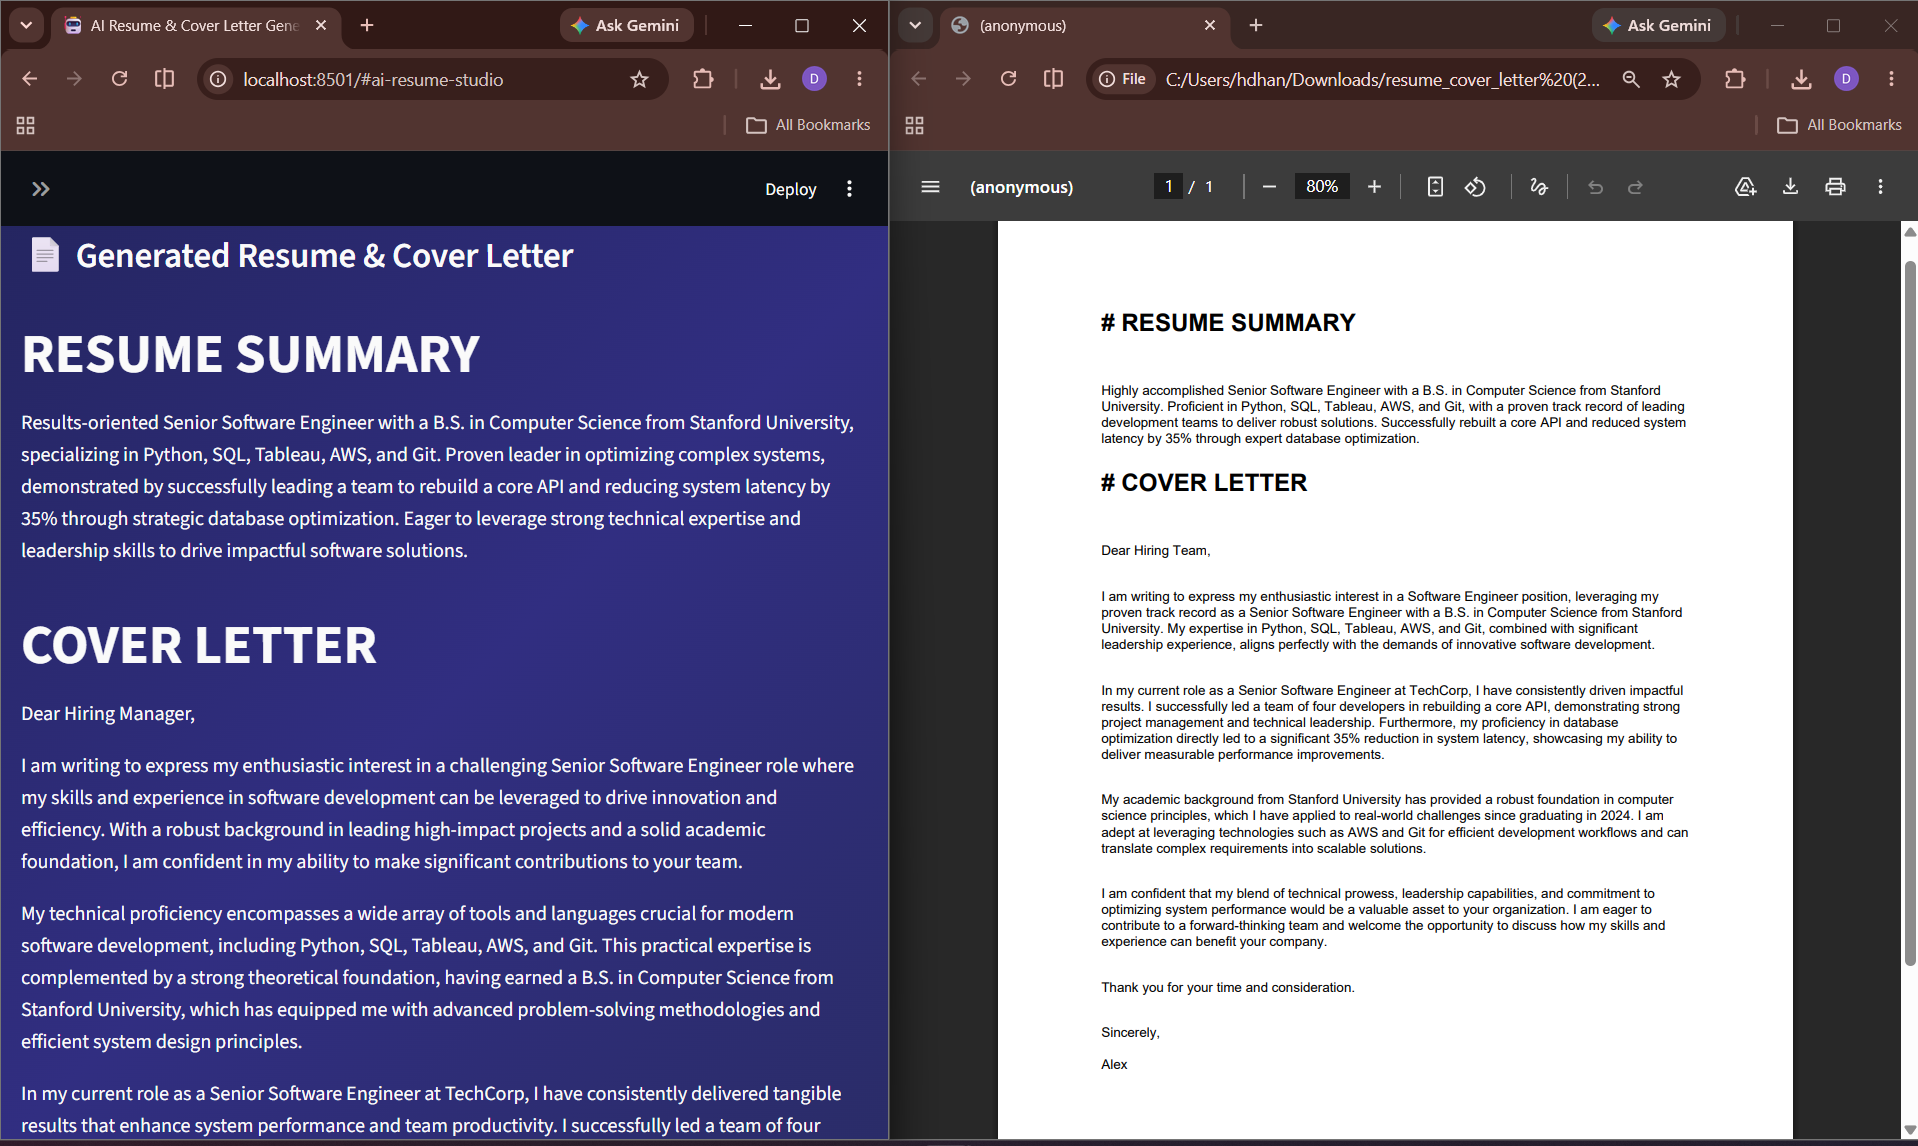
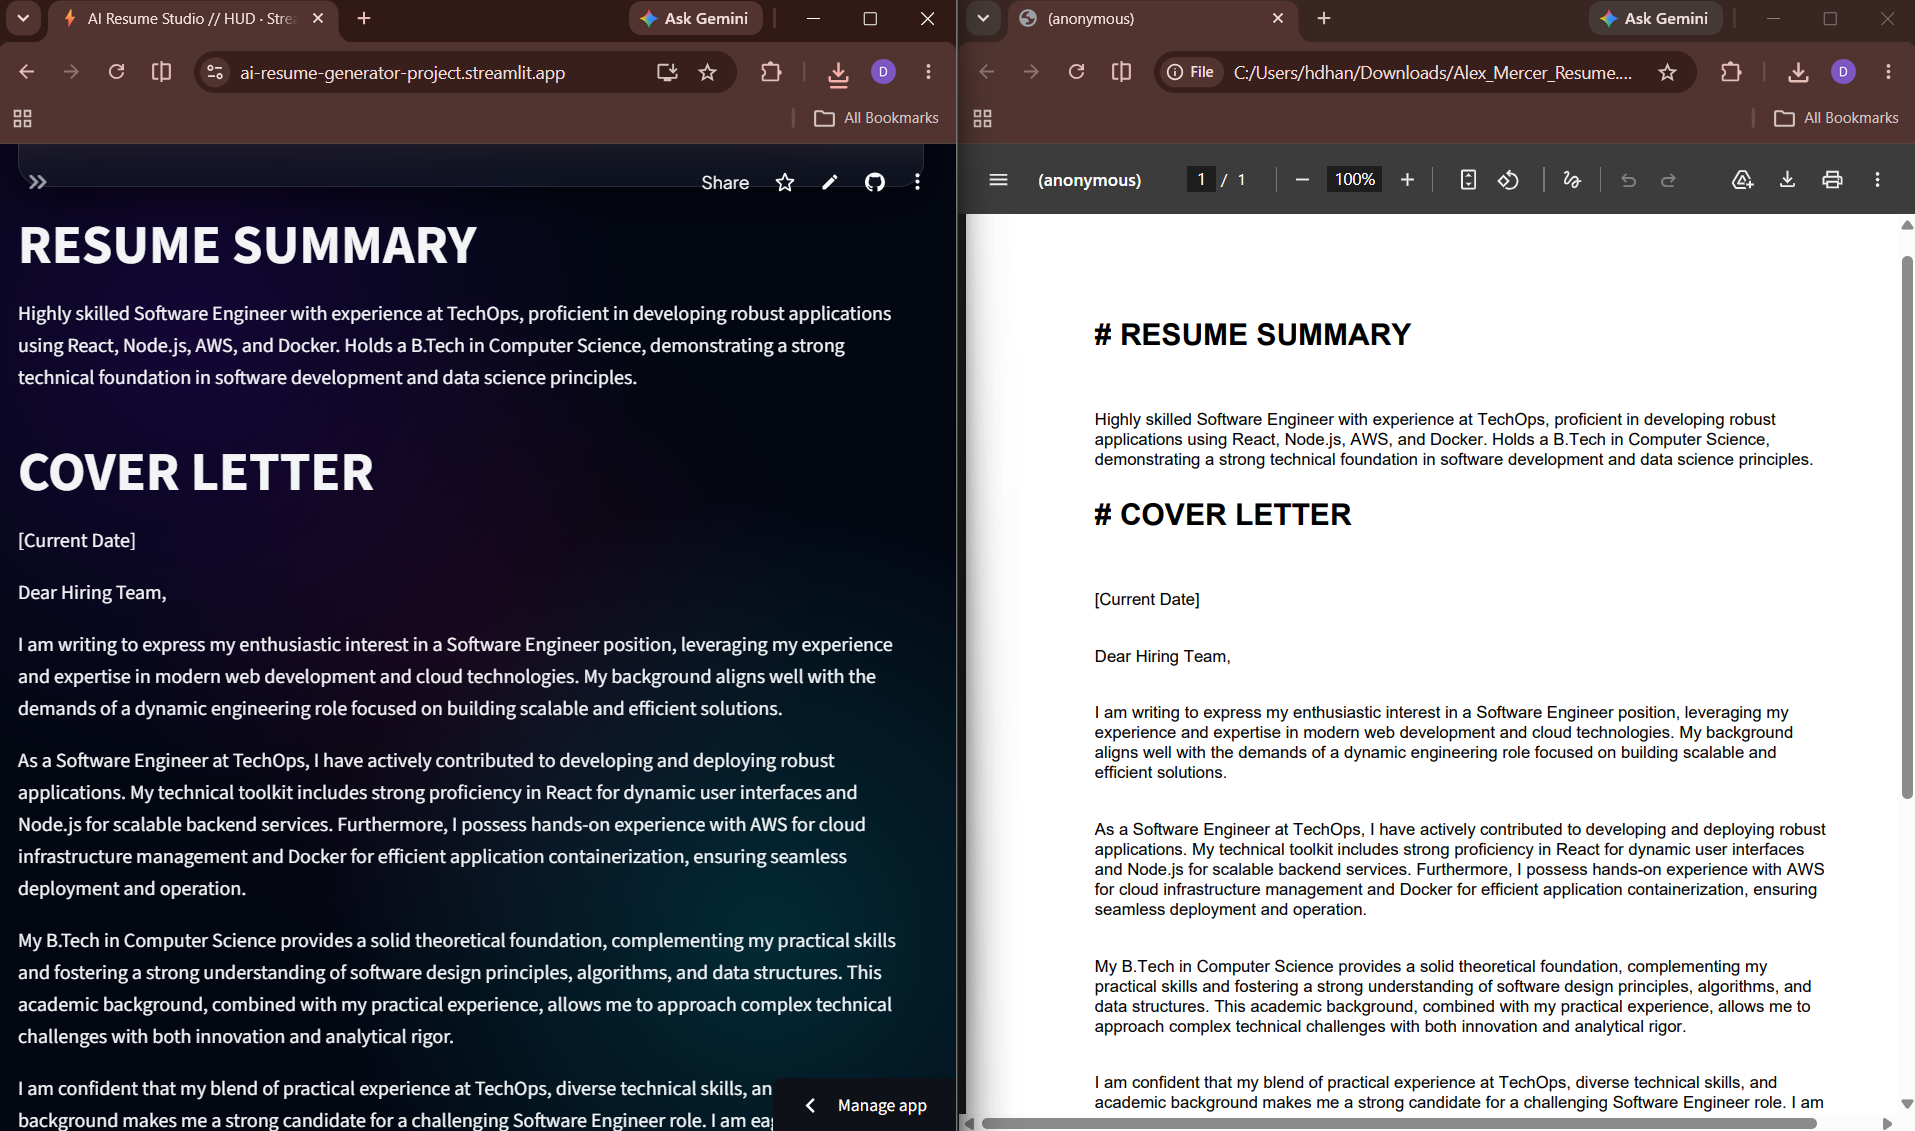
Add project screenshots and update README

diff --git a/README.md b/README.md
@@ -1,67 +1,76 @@
-# ⚡ AI Resume Studio
+# 🤖 AI Resume Studio
 
-An AI-powered Resume and Cover Letter Generator built with **Python, Streamlit, and Google Gemini AI**.
+### Generate ATS-Optimized Resumes, Cover Letters & Career Insights with AI
 
-AI Resume Studio helps users create professional, ATS-friendly resume summaries and cover letters from their personal information. It also provides an optional ATS compatibility analysis by comparing the candidate's profile with a target job description.
-
-🌐 **Live Demo:** https://ai-resume-generator-project.streamlit.app/
+🌐 **Live Demo:** [AI Resume Studio](https://ai-resume-generator-project.streamlit.app/)
 
 ---
 
-## 🚀 Features
+## 🚀 Overview
 
-### 📄 AI Resume Summary Generation
+AI Resume Studio is a modern AI-powered career assistant built using **Python, Streamlit, and Google Gemini AI**.
 
-Generate a concise and professional resume summary using your:
+The application helps users create professional ATS-friendly resume summaries, generate personalized cover letters, analyze job descriptions, and receive ATS compatibility scores instantly.
 
-* Name
-* Skills
-* Education
-* Work experience
+Designed with a futuristic animated interface, the platform simplifies the job application process and helps candidates improve their chances of passing Applicant Tracking Systems (ATS).
 
-### ✉ AI Cover Letter Generation
+---
 
-Automatically generate a professional, ready-to-use cover letter based on the candidate information provided.
+## ✨ Features
 
-### 🎯 ATS Compatibility Analysis
+### 📄 AI Resume Generator
 
-Paste a target job description to receive an AI-powered analysis containing:
+Generate professional and ATS-friendly resume summaries based on your skills, education, and experience.
 
-* ATS Compatibility Score
+### 💌 AI Cover Letter Generator
+
+Create personalized cover letters tailored to your profile and target job role.
+
+### 🎯 ATS Score Analysis
+
+Analyze your profile against a job description and receive an AI-powered ATS compatibility score.
+
+### 📊 Career Insights
+
+Discover:
+
 * Missing Skills
-* Candidate Strengths
+* Key Strengths
 * Improvement Suggestions
+* ATS Optimization Tips
 
-### 📥 PDF Resume Export
+### 📥 PDF Export
 
-Download your generated resume and cover letter as a PDF document.
+Download generated resumes and cover letters as professional PDF documents.
 
-### 📊 ATS Report Download
+### 📑 ATS Report Export
 
-Download your ATS analysis as a `.txt` file for future reference.
+Download your ATS analysis and recommendations as a `.txt` report.
 
-### 🎨 Modern Cyberpunk UI
+### 🎨 Modern UI/UX
 
-The application features a modern glassmorphism and cyberpunk-inspired interface with:
+Includes:
 
-* Animated loading screen
-* Gradient UI elements
-* Glass-style cards
-* Responsive Streamlit layout
-* Dark futuristic design
+* Animated Gradient Background
+* Glassmorphism Design
+* Responsive Layout
+* Interactive Metrics
+* Futuristic Dark Theme
+* Animated Loading Effects
+* Celebration Effects
 
 ---
 
-## 🛠 Tech Stack
+## 🛠 Tech Stack
 
-| Technology          | Purpose                                |
-| ------------------- | -------------------------------------- |
-| Python              | Application development                |
-| Streamlit           | Web application framework              |
-| Google Gemini AI    | Resume, cover letter, and ATS analysis |
-| ReportLab           | PDF document generation                |
-| Regular Expressions | ATS score extraction                   |
-| HTML & CSS          | Custom user interface                  |
+| Technology          | Purpose                              |
+| ------------------- | ------------------------------------ |
+| Python              | Application Logic                    |
+| Streamlit           | Web Application Framework            |
+| Google Gemini AI    | AI Content Generation & ATS Analysis |
+| ReportLab           | PDF Generation                       |
+| Regular Expressions | ATS Score Extraction                 |
+| HTML & CSS          | Custom UI/UX                         |
 
 ---
 
@@ -74,48 +83,46 @@ AI-Resume-Generator/
 ├── pdf_generator.py
 ├── requirements.txt
 ├── .gitignore
-└── README.md
+├── README.md
+│
+└── screenshots/
+    ├── homepage.png
+    ├── coverletter_pdf.png
+    └── ats_score.png
 ```
 
-### File Description
-
-* `app.py` — Main Streamlit application and AI generation logic
-* `pdf_generator.py` — Generates downloadable PDF documents
-* `requirements.txt` — Contains required Python dependencies
-* `.gitignore` — Prevents sensitive and unnecessary files from being uploaded
-* `README.md` — Project documentation
+> 🔐 API keys and sensitive configuration files are excluded from the repository using `.gitignore`.
 
 ---
 
 ## ⚙ Installation
 
-### 1. Clone the Repository
+### Clone Repository
 
 ```bash
-git clone https://github.com/YOUR_USERNAME/AI-Resume-Generator.git
-```
-
-### 2. Navigate to the Project
-
-```bash
+git clone <repository-url>
 cd AI-Resume-Generator
 ```
 
-### 3. Install Dependencies
+### Install Dependencies
 
 ```bash
 pip install -r requirements.txt
+```
+
+### Run Application
+
+```bash
+streamlit run app.py
 ```
 
 ---
 
 ## 🔑 API Configuration
 
-This project uses the **Google Gemini API**.
+This project uses the **Google Gemini API** for AI-powered resume generation, cover letter generation, and ATS analysis.
 
-For local development, configure your Gemini API key using your preferred secure method.
-
-For Streamlit Community Cloud deployment, add your API key to Streamlit Secrets:
+For deployment, configure your API key using Streamlit Secrets:
 
 ```toml
 GEMINI_API_KEY = "YOUR_GEMINI_API_KEY"
@@ -123,108 +130,72 @@ GEMINI_API_KEY = "YOUR_GEMINI_API_KEY"
 
 ⚠ **Never commit your API key to GitHub.**
 
-Make sure sensitive files such as `secret.py` and `.streamlit/secrets.toml` are included in `.gitignore`.
+---
+
+## 🖥 Application Workflow
+
+1. Enter Candidate Details
+2. Add Skills, Education, and Experience
+3. Add a Target Job Description (Optional)
+4. Generate Resume Summary
+5. Generate Cover Letter
+6. Analyze ATS Compatibility
+7. View ATS Score and Career Insights
+8. Download Generated PDF
+9. Download ATS Analysis Report
 
 ---
 
-## ▶ Run Locally
+## 📸 Screenshots
 
-Start the Streamlit application with:
+### 🏠 Home Page
 
-```bash
-streamlit run app.py
-```
-
-The application will open in your browser.
+![AI Resume Studio Home Page](screenshots/homepage.png)
 
 ---
 
-## 🧑💻 How to Use
+### 📄 Resume & Cover Letter Generation
 
-1. Open the AI Resume Studio application.
-2. Enter your full name.
-3. Add your skills and technical stack.
-4. Enter your education and credentials.
-5. Add your work experience and highlights.
-6. Optionally paste a target job description.
-7. Click **Initialize Generation Process**.
-8. Wait for Gemini AI to generate your resume summary and cover letter.
-9. Download your generated PDF.
-10. If a job description was provided, review your ATS compatibility report.
-11. Download the ATS report if required.
+![Resume and Cover Letter Generation](screenshots/coverletter_pdf.png)
 
 ---
 
-## 🎯 ATS Analysis
+### 🎯 ATS Analysis Dashboard
 
-When a job description is provided, the application analyzes the candidate profile against the target role.
-
-The ATS analysis provides:
-
-```text
-ATS SCORE
-
-MISSING SKILLS
-
-STRENGTHS
-
-IMPROVEMENT SUGGESTIONS
-```
-
-The ATS score is extracted from the AI-generated response and displayed as a percentage inside the application.
+![ATS Compatibility Score](screenshots/ats_score.png)
 
 ---
 
-## ☁ Deployment
+## 🌐 Live Demo
+
+Try the deployed application:
+
+👉 **[Launch AI Resume Studio](https://ai-resume-generator-project.streamlit.app/)**
 
 The application is deployed using **Streamlit Community Cloud**.
 
-🌐 **Live Application:**
+---
 
-https://ai-resume-generator-project.streamlit.app/
+## 🔮 Future Enhancements
 
-To deploy your own version:
-
-1. Push the project to GitHub.
-2. Open Streamlit Community Cloud.
-3. Connect your GitHub repository.
-4. Select `app.py` as the main file.
-5. Add `GEMINI_API_KEY` under Streamlit Secrets.
-6. Deploy the application.
+* Multiple Resume Templates
+* Resume Keyword Optimizer
+* LinkedIn Profile Analyzer
+* Interview Question Generator
+* One-Click Resume Builder
+* DOCX Resume Export
+* Cloud Storage Integration
+* User Authentication
+* Resume History
+* Job-Specific Resume Optimization
 
 ---
 
-## 🔐 Security
+## 🎓 Internship Project
 
-The Gemini API key is a private credential.
+Developed as part of the **SystemTron Generative AI Internship Program**.
 
-Do not:
-
-* Commit API keys to GitHub
-* Share API keys publicly
-* Add API keys directly to `app.py`
-* Upload `secret.py` if it contains your API key
-
-Use environment variables or Streamlit Secrets to manage sensitive credentials.
-
----
-
-## 🔮 Future Improvements
-
-Planned improvements may include:
-
-* Full AI-generated resume sections
-* Multiple professional resume templates
-* Custom resume themes
-* Job-specific resume optimization
-* LinkedIn profile optimization
-* Resume keyword recommendations
-* Resume scoring improvements
-* DOCX export
-* Resume history and saved profiles
-* User authentication
-* Database integration
-* Improved ATS keyword matching
+This project demonstrates the practical use of **Generative AI, Python, Streamlit, and PDF automation** to build an AI-powered career assistance platform.
 
 ---
 
@@ -232,24 +203,24 @@ Planned improvements may include:
 
 **Dhanush**
 
-Computer Science & Engineering — Data Science
+Passionate about:
 
-Interested in:
-
-* Artificial Intelligence
-* Machine Learning
-* Data Science
-* Full-Stack Development
-* AI-Powered Applications
+* 🤖 Artificial Intelligence
+* 🧠 Machine Learning
+* 📊 Data Science
+* 💻 Full-Stack Development
+* 🚀 AI-Powered Applications
 
 ---
 
 ## ⭐ Support
 
-If you find this project useful, consider giving the repository a ⭐ on GitHub.
+If you like this project, consider giving the repository a ⭐ **Star** on GitHub!
+
+Your support is greatly appreciated. 🚀
 
 ---
 
 ## 📜 License
 
-This project is created for educational and portfolio purposes.
+This project was developed for educational, internship, and portfolio purposes.
